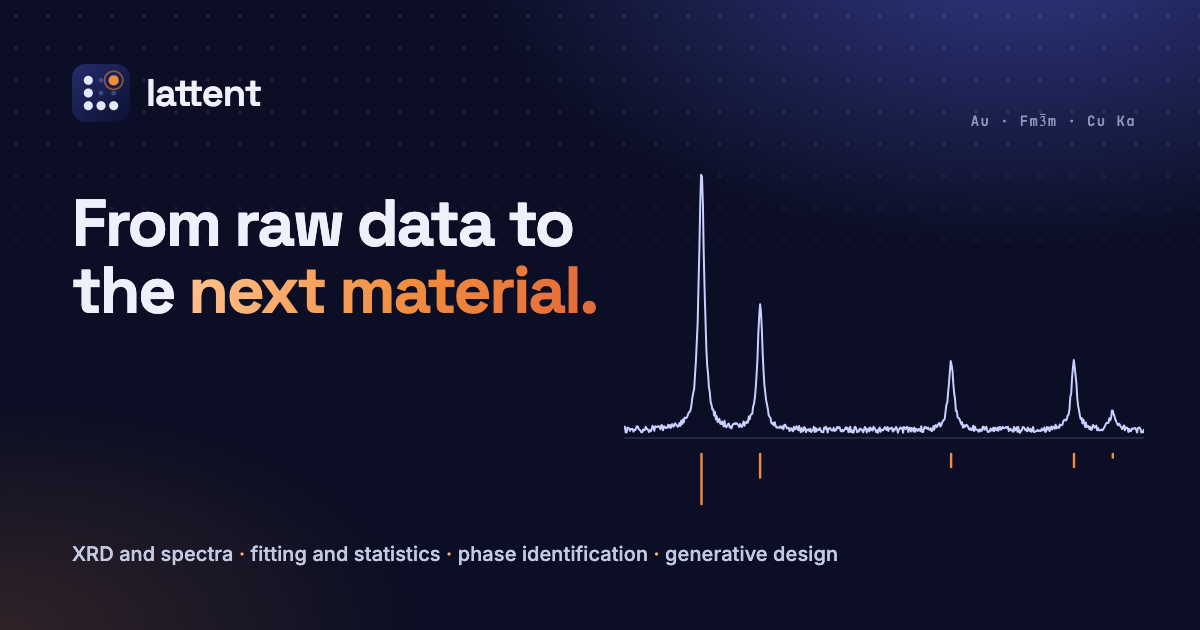
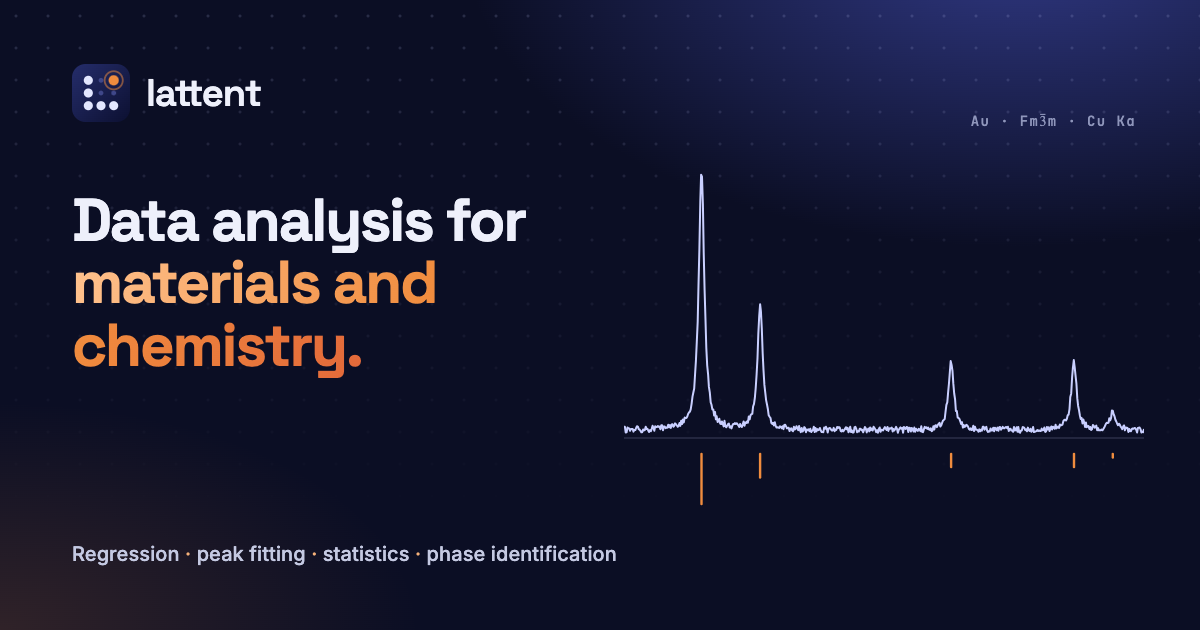
Plain, technical hero copy
- Headline: "Data analysis for materials and chemistry."
- Lede states what the software does (nonlinear regression, peak
  fitting, hypothesis testing, phase identification) and how it is
  verified, instead of general claims.
- Kicker and page title follow; the "What Lattent addresses" heading
  replaces the more promotional wording.
- Social preview image updated to match.

Changed region(s): [[0.0617, 0.3016, 0.4933, 0.6032], [0.0617, 0.8444, 0.7092, 0.9048]]

diff --git a/assets/brand/og.html b/assets/brand/og.html
@@ -3,11 +3,11 @@
 background:radial-gradient(900px 500px at 85% -10%,rgba(86,100,230,.5),transparent 62%),radial-gradient(700px 380px at 0% 100%,rgba(240,140,62,.16),transparent 60%),#0b0e24}
 body::before{content:'';position:absolute;inset:0;background-image:radial-gradient(circle,rgba(201,207,255,.16) 1.2px,transparent 1.8px);background-size:32px 32px;-webkit-mask-image:linear-gradient(to bottom,#000,transparent 80%)}
 .brand{position:absolute;left:72px;top:64px;display:flex;align-items:center;gap:16px;font:600 38px 'Space Grotesk';letter-spacing:-.025em} .brand svg{width:58px;height:58px}
-h1{position:absolute;left:72px;top:190px;width:560px;margin:0;font:700 66px/1.02 'Space Grotesk';letter-spacing:-.035em}
+h1{position:absolute;left:72px;top:190px;width:560px;margin:0;font:700 60px/1.04 'Space Grotesk';letter-spacing:-.035em}
 h1 em{font-style:normal;background:linear-gradient(100deg,#ffc28e,#f08c3e 55%,#e3693a);-webkit-background-clip:text;color:transparent}
 .sub{position:absolute;left:72px;bottom:64px;font:500 20px Inter;color:#c4c9e2;letter-spacing:.005em} .sub b{color:#f6b27a;font-weight:500}
 .plot{position:absolute;right:56px;top:150px} .tag{position:absolute;right:64px;top:112px;font:500 14px 'JetBrains Mono';color:#8f96bb;letter-spacing:.1em}</style></head>
 <body><div class="brand"><svg xmlns="http://www.w3.org/2000/svg" viewBox="0 0 64 64"><defs><linearGradient id="lt-g" x1="0" y1="0" x2="1" y2="1"><stop offset="0" stop-color="#252d6b"/><stop offset="1" stop-color="#0c1031"/></linearGradient></defs><rect width="64" height="64" rx="15" fill="url(#lt-g)"/><circle cx="32" cy="32" r="2.6" fill="#3f4789"/><circle cx="46" cy="32" r="2.6" fill="#3f4789"/><circle cx="32" cy="18" r="2.6" fill="#3f4789"/><circle cx="18" cy="18" r="5" fill="#e3e7ff"/><circle cx="18" cy="32" r="5" fill="#e3e7ff"/><circle cx="18" cy="46" r="5" fill="#e3e7ff"/><circle cx="32" cy="46" r="5" fill="#e3e7ff"/><circle cx="46" cy="46" r="5" fill="#e3e7ff"/><circle cx="46" cy="18" r="10" fill="none" stroke="#f08c3e" stroke-opacity=".5" stroke-width="2"/><circle cx="46" cy="18" r="5.6" fill="#f08c3e"/></svg>
-<span>lattent</span></div><h1>From raw data to the <em>next material.</em></h1>
+<span>lattent</span></div><h1>Data analysis for <em>materials and chemistry.</em></h1>
 <div class="tag">Au · Fm3̅m · Cu Kα</div><div class="plot"><svg width="520" height="360" viewBox="0 0 520 360"><line x1="0" x2="520" y1="288" y2="288" stroke="rgba(201,207,255,.25)"/><path d="M0.0 276.8 L0.9 276.8 L1.7 282.4 L2.6 282.2 L3.5 277.5 L4.3 278.1 L5.2 278.5 L6.1 280.8 L6.9 278.9 L7.8 278.9 L8.7 279.0 L9.5 281.6 L10.4 279.9 L11.3 280.1 L12.1 278.0 L13.0 276.3 L13.9 276.6 L14.7 279.1 L15.6 279.7 L16.5 280.8 L17.3 282.2 L18.2 282.2 L19.1 279.5 L19.9 280.4 L20.8 280.0 L21.7 276.7 L22.5 279.0 L23.4 278.7 L24.3 280.7 L25.1 282.0 L26.0 280.1 L26.9 281.2 L27.7 278.9 L28.6 275.8 L29.5 277.8 L30.3 280.8 L31.2 276.3 L32.1 276.8 L32.9 277.2 L33.8 276.0 L34.7 276.9 L35.5 276.6 L36.4 279.3 L37.3 275.3 L38.1 275.3 L39.0 280.3 L39.9 276.5 L40.7 276.6 L41.6 278.1 L42.5 277.5 L43.3 277.7 L44.2 274.8 L45.1 277.3 L45.9 275.1 L46.8 277.9 L47.7 274.5 L48.5 274.2 L49.4 276.7 L50.3 275.8 L51.1 273.4 L52.0 274.3 L52.9 275.5 L53.7 276.8 L54.6 275.8 L55.5 273.0 L56.3 275.9 L57.2 270.7 L58.1 274.1 L58.9 269.4 L59.8 272.4 L60.7 267.5 L61.5 268.0 L62.4 268.0 L63.3 266.5 L64.1 264.0 L65.0 262.4 L65.9 261.7 L66.7 259.4 L67.6 253.8 L68.5 246.6 L69.3 242.7 L70.2 238.5 L71.1 223.8 L71.9 211.1 L72.8 191.8 L73.7 171.6 L74.5 135.3 L75.4 98.6 L76.3 51.8 L77.1 24.8 L78.0 26.7 L78.9 54.0 L79.7 102.2 L80.6 140.0 L81.5 170.0 L82.3 197.7 L83.2 215.5 L84.1 224.3 L84.9 236.9 L85.8 242.4 L86.7 252.4 L87.5 254.8 L88.4 259.6 L89.3 259.4 L90.1 265.4 L91.0 261.9 L91.9 269.3 L92.7 266.3 L93.6 271.9 L94.5 271.4 L95.3 268.7 L96.2 273.6 L97.1 274.0 L97.9 271.4 L98.8 273.8 L99.7 276.4 L100.5 270.8 L101.4 276.4 L102.3 277.3 L103.1 275.7 L104.0 274.2 L104.9 273.6 L105.7 277.6 L106.6 276.4 L107.5 278.4 L108.3 275.8 L109.2 273.9 L110.1 274.1 L110.9 273.1 L111.8 274.0 L112.7 273.2 L113.5 274.2 L114.4 275.5 L115.3 276.9 L116.1 274.0 L117.0 276.0 L117.9 277.0 L118.7 274.6 L119.6 271.5 L120.5 275.8 L121.3 272.4 L122.2 272.9 L123.1 271.4 L123.9 272.7 L124.8 266.5 L125.7 269.4 L126.5 265.4 L127.4 264.2 L128.3 263.8 L129.1 256.5 L130.0 253.9 L130.9 247.5 L131.7 238.1 L132.6 224.5 L133.5 208.0 L134.3 184.4 L135.2 166.3 L136.1 154.2 L136.9 161.0 L137.8 178.5 L138.7 203.8 L139.5 220.1 L140.4 234.9 L141.3 242.9 L142.1 250.1 L143.0 254.5 L143.9 259.3 L144.7 265.3 L145.6 266.7 L146.5 268.0 L147.3 272.8 L148.2 273.9 L149.1 272.7 L149.9 275.4 L150.8 272.3 L151.7 276.0 L152.5 277.4 L153.4 277.3 L154.3 277.4 L155.1 277.9 L156.0 276.3 L156.9 276.9 L157.7 278.1 L158.6 276.2 L159.5 279.1 L160.3 275.0 L161.2 274.8 L162.1 276.4 L162.9 278.3 L163.8 278.0 L164.7 277.7 L165.5 281.1 L166.4 278.9 L167.3 278.3 L168.1 280.5 L169.0 281.1 L169.9 276.8 L170.7 279.6 L171.6 278.7 L172.5 276.2 L173.3 278.2 L174.2 280.2 L175.1 276.0 L175.9 279.8 L176.8 282.1 L177.7 277.9 L178.5 281.6 L179.4 280.4 L180.3 277.1 L181.1 278.2 L182.0 282.3 L182.9 279.6 L183.7 279.9 L184.6 279.4 L185.5 281.2 L186.3 278.8 L187.2 282.1 L188.1 280.8 L188.9 280.2 L189.8 276.7 L190.7 282.1 L191.5 277.9 L192.4 281.4 L193.3 279.1 L194.1 280.2 L195.0 279.8 L195.9 278.0 L196.7 280.2 L197.6 282.0 L198.5 282.0 L199.3 282.2 L200.2 277.4 L201.1 278.8 L201.9 276.8 L202.8 278.5 L203.7 282.6 L204.5 278.7 L205.4 278.0 L206.3 278.3 L207.1 279.7 L208.0 280.6 L208.9 280.0 L209.7 277.9 L210.6 281.2 L211.5 279.6 L212.3 279.9 L213.2 276.9 L214.1 277.9 L214.9 277.1 L215.8 277.7 L216.7 281.0 L217.5 281.4 L218.4 279.9 L219.3 281.3 L220.1 280.2 L221.0 278.7 L221.9 277.2 L222.7 279.3 L223.6 277.8 L224.5 282.3 L225.3 280.7 L226.2 276.7 L227.1 282.0 L227.9 280.3 L228.8 282.5 L229.7 282.4 L230.5 277.4 L231.4 276.8 L232.3 278.9 L233.1 282.2 L234.0 281.1 L234.9 281.5 L235.7 278.8 L236.6 278.7 L237.5 280.2 L238.3 279.7 L239.2 282.3 L240.1 279.6 L240.9 277.0 L241.8 278.3 L242.7 282.4 L243.5 279.8 L244.4 278.5 L245.3 281.4 L246.1 277.4 L247.0 280.1 L247.9 278.6 L248.7 280.5 L249.6 276.8 L250.5 278.1 L251.3 279.4 L252.2 282.1 L253.1 280.2 L253.9 282.8 L254.8 279.3 L255.7 277.5 L256.5 281.8 L257.4 279.8 L258.3 280.0 L259.1 280.4 L260.0 278.5 L260.9 277.1 L261.7 278.6 L262.6 280.0 L263.5 276.9 L264.3 280.9 L265.2 278.3 L266.1 278.8 L266.9 278.2 L267.8 277.6 L268.7 281.5 L269.5 279.0 L270.4 280.4 L271.3 278.7 L272.1 276.8 L273.0 278.9 L273.9 282.8 L274.7 280.0 L275.6 278.4 L276.5 277.4 L277.3 278.8 L278.2 277.8 L279.1 282.7 L279.9 276.9 L280.8 278.3 L281.7 279.0 L282.5 277.1 L283.4 277.3 L284.3 282.1 L285.1 277.7 L286.0 277.9 L286.9 281.5 L287.7 278.0 L288.6 279.0 L289.5 281.5 L290.3 277.6 L291.2 281.7 L292.1 278.8 L292.9 279.8 L293.8 280.9 L294.7 278.9 L295.5 279.5 L296.4 281.1 L297.3 276.3 L298.1 281.8 L299.0 282.2 L299.9 279.2 L300.7 276.9 L301.6 277.9 L302.5 277.3 L303.3 278.9 L304.2 277.6 L305.1 279.6 L305.9 279.9 L306.8 278.3 L307.7 281.1 L308.5 280.6 L309.4 276.2 L310.3 279.6 L311.1 275.7 L312.0 275.2 L312.9 277.2 L313.7 275.1 L314.6 273.9 L315.5 272.8 L316.3 276.5 L317.2 275.4 L318.1 272.8 L318.9 270.8 L319.8 269.9 L320.7 269.1 L321.5 262.2 L322.4 254.9 L323.3 252.3 L324.1 242.7 L325.0 233.0 L325.9 221.4 L326.7 211.1 L327.6 215.0 L328.5 221.0 L329.3 233.4 L330.2 243.5 L331.1 249.5 L331.9 261.0 L332.8 260.9 L333.7 267.5 L334.5 267.9 L335.4 268.9 L336.3 271.3 L337.1 274.1 L338.0 272.2 L338.9 277.6 L339.7 274.9 L340.6 276.9 L341.5 276.4 L342.3 274.8 L343.2 275.4 L344.1 276.8 L344.9 279.0 L345.8 279.7 L346.7 278.4 L347.5 280.0 L348.4 279.8 L349.3 275.7 L350.1 281.1 L351.0 276.8 L351.9 279.6 L352.7 279.8 L353.6 280.1 L354.5 281.7 L355.3 279.4 L356.2 281.3 L357.1 279.6 L357.9 280.6 L358.8 276.8 L359.7 276.7 L360.5 279.7 L361.4 278.5 L362.3 276.8 L363.1 280.5 L364.0 282.0 L364.9 281.1 L365.7 281.5 L366.6 278.4 L367.5 280.4 L368.3 280.5 L369.2 277.8 L370.1 281.3 L370.9 277.7 L371.8 278.8 L372.7 280.3 L373.5 277.6 L374.4 280.7 L375.3 277.3 L376.1 277.0 L377.0 279.7 L377.9 278.5 L378.7 276.9 L379.6 278.2 L380.5 278.2 L381.3 277.4 L382.2 277.0 L383.1 278.1 L383.9 276.7 L384.8 281.0 L385.7 279.0 L386.5 278.7 L387.4 280.6 L388.3 280.4 L389.1 281.8 L390.0 276.9 L390.9 280.6 L391.7 279.9 L392.6 277.3 L393.5 281.7 L394.3 276.9 L395.2 282.1 L396.1 282.7 L396.9 280.6 L397.8 280.6 L398.7 277.1 L399.5 277.3 L400.4 278.1 L401.3 280.1 L402.1 279.4 L403.0 281.3 L403.9 277.6 L404.7 280.3 L405.6 281.0 L406.5 278.8 L407.3 281.8 L408.2 280.7 L409.1 276.9 L409.9 282.1 L410.8 281.8 L411.7 281.4 L412.5 281.1 L413.4 280.0 L414.3 281.0 L415.1 280.4 L416.0 281.0 L416.9 281.0 L417.7 278.6 L418.6 280.3 L419.5 280.0 L420.3 277.5 L421.2 281.9 L422.1 281.3 L422.9 276.9 L423.8 279.4 L424.7 277.2 L425.5 281.1 L426.4 278.6 L427.3 276.5 L428.1 279.5 L429.0 276.7 L429.9 277.6 L430.7 278.8 L431.6 274.8 L432.5 278.4 L433.3 277.6 L434.2 276.5 L435.1 278.0 L435.9 274.4 L436.8 275.4 L437.7 275.0 L438.5 274.6 L439.4 271.0 L440.3 270.0 L441.1 269.7 L442.0 270.5 L442.9 268.7 L443.7 265.3 L444.6 264.6 L445.5 259.2 L446.3 246.9 L447.2 243.4 L448.1 227.4 L448.9 218.0 L449.8 210.1 L450.7 217.4 L451.5 225.1 L452.4 233.3 L453.3 248.4 L454.1 255.7 L455.0 260.1 L455.9 265.5 L456.7 268.9 L457.6 268.0 L458.5 273.4 L459.3 269.4 L460.2 272.5 L461.1 277.1 L461.9 272.5 L462.8 277.2 L463.7 276.2 L464.5 276.1 L465.4 279.0 L466.3 277.0 L467.1 280.0 L468.0 279.3 L468.9 275.0 L469.7 275.7 L470.6 277.7 L471.5 276.8 L472.3 275.6 L473.2 280.2 L474.1 278.1 L474.9 280.3 L475.8 280.3 L476.7 280.3 L477.5 279.5 L478.4 280.3 L479.3 279.1 L480.1 277.8 L481.0 275.8 L481.9 273.8 L482.7 272.8 L483.6 272.9 L484.5 272.8 L485.3 268.3 L486.2 270.4 L487.1 267.8 L487.9 260.6 L488.8 260.7 L489.7 264.5 L490.5 266.2 L491.4 269.7 L492.3 271.5 L493.1 273.5 L494.0 275.2 L494.9 273.7 L495.7 274.5 L496.6 276.6 L497.5 277.7 L498.3 279.2 L499.2 276.5 L500.1 275.4 L500.9 280.3 L501.8 277.5 L502.7 277.7 L503.5 278.0 L504.4 282.0 L505.3 278.9 L506.1 281.1 L507.0 281.2 L507.9 278.9 L508.7 278.5 L509.6 278.7 L510.5 278.0 L511.3 278.3 L512.2 279.8 L513.1 282.5 L513.9 278.0 L514.8 277.7 L515.7 277.6 L516.5 279.1 L517.4 282.6 L518.3 281.7 L519.1 282.2 L520.0 279.0" fill="none" stroke="#c9cfff" stroke-width="2" stroke-linejoin="round"/><line x1="77.5" x2="77.5" y1="304" y2="354.0" stroke="#f08c3e" stroke-width="2.4" stroke-linecap="round"/><line x1="136.1" x2="136.1" y1="304" y2="327.5" stroke="#f08c3e" stroke-width="2.4" stroke-linecap="round"/><line x1="327.1" x2="327.1" y1="304" y2="317.0" stroke="#f08c3e" stroke-width="2.4" stroke-linecap="round"/><line x1="450.0" x2="450.0" y1="304" y2="317.0" stroke="#f08c3e" stroke-width="2.4" stroke-linecap="round"/><line x1="488.8" x2="488.8" y1="304" y2="307.5" stroke="#f08c3e" stroke-width="2.4" stroke-linecap="round"/></svg></div>
-<div class="sub">XRD and spectra <b>·</b> fitting and statistics <b>·</b> phase identification <b>·</b> generative design</div></body></html>
+<div class="sub">Regression <b>·</b> peak fitting <b>·</b> statistics <b>·</b> phase identification</div></body></html>

diff --git a/index.html b/index.html
@@ -6,10 +6,10 @@
 <meta name="referrer" content="strict-origin-when-cross-origin">
 <script src="assets/js/theme.js"></script>
 <meta name="viewport" content="width=device-width, initial-scale=1, viewport-fit=cover">
-<title>Lattent: lab data to trusted results, in minutes</title>
+<title>Lattent: data analysis for materials and chemistry</title>
 <meta name="description" content="The analysis bench for materials and chemistry labs: XRD, spectra, curve fitting and statistics, phase identification and generative materials design, in your browser.">
 <meta name="theme-color" content="#0b0e24">
-<meta property="og:title" content="Lattent: lab data to trusted results, in minutes">
+<meta property="og:title" content="Lattent: data analysis for materials and chemistry">
 <meta property="og:description" content="The analysis bench for materials and chemistry labs: validated fitting and statistics, XRD phase identification against 5.8 million computed crystals, and generative design of new compositions.">
 <meta property="og:type" content="website">
 <meta property="og:url" content="https://siba-p.github.io/lattent/">
@@ -30,9 +30,9 @@
 
 <section class="l-hero">
   <div class="wrap l-hero-in">
-    <p class="l-kicker">For materials and chemistry labs</p>
-    <h1>Lab data to <em>trusted results,</em> in minutes.</h1>
-    <p class="l-lede">Researchers lose days moving XRD patterns, spectra and kinetics between Excel, Origin, scripts and chatbots, and still risk a wrong fit or the wrong test. Lattent does the whole analysis in one place, checks it for mistakes, and suggests what to make next.</p>
+    <p class="l-kicker">Browser-based · validated against SciPy</p>
+    <h1>Data analysis for <em>materials and chemistry.</em></h1>
+    <p class="l-lede">Nonlinear regression, peak fitting, hypothesis testing and phase identification for XRD, spectroscopy, kinetics and mechanical data. Every fit reports parameter uncertainties, and every result is checked against the reference Python libraries before release.</p>
     <div class="l-cta">
       <a class="btn big primary" href="studio/">Open Lattent Studio</a>
       <a class="btn big ghost-light" href="#examples">Explore a worked example</a>
@@ -52,7 +52,7 @@
 </section>
 
 <section class="wrap section solve" id="solve">
-  <div class="sec-head center"><p class="l-kicker dark">What Lattent solves</p><h2>Three problems every materials lab knows.</h2></div>
+  <div class="sec-head center"><p class="l-kicker dark">Scope</p><h2>What Lattent addresses</h2></div>
   <div class="solve-grid">
     <article class="solve-card">
       <div class="sv-p"><span>The problem</span><h3>Analysis is slow and scattered.</h3><p>Data in one program, fits in another, figures in a third, and a script nobody else in the group can run.</p></div>
